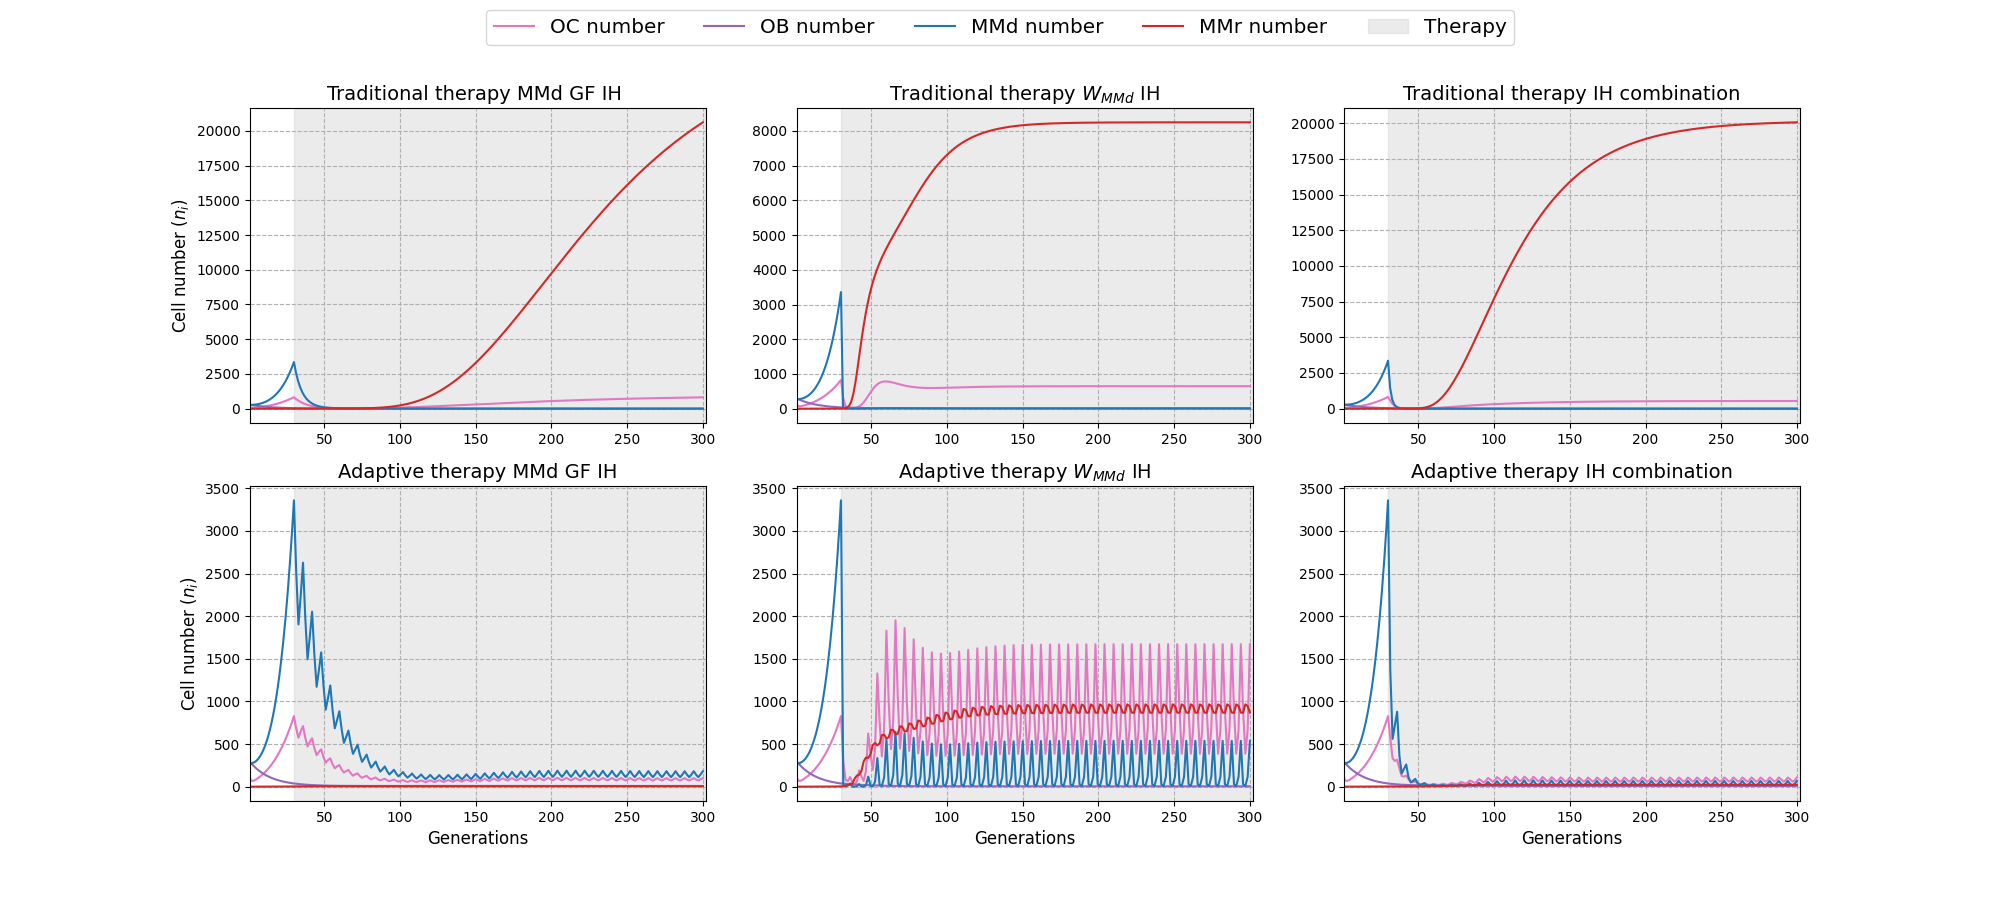
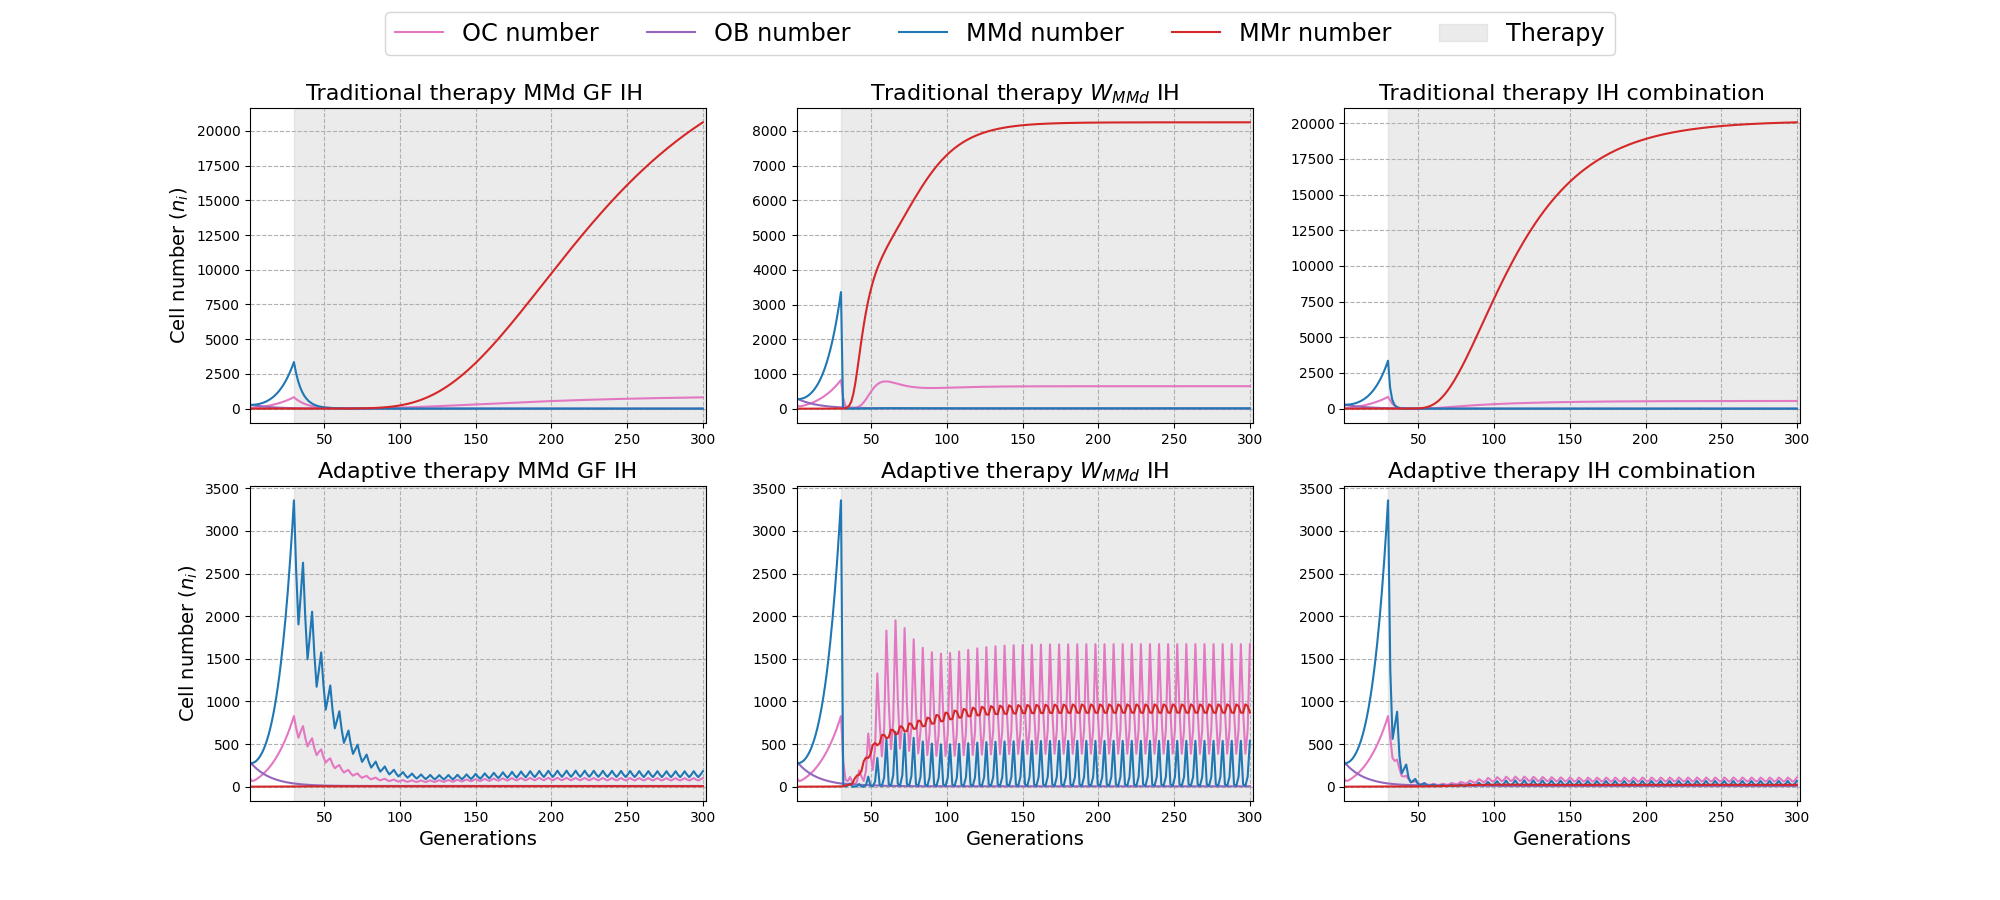
comments check

diff --git a/code/MM_model_nr_IH_inf.py b/code/MM_model_nr_IH_inf.py
@@ -53,7 +53,7 @@ def main():
     # are low (< 500), high: the MMr limit values are high (> 500)
     Figure_AT_MMd_MMr_limit(500, 250)
 
-    # """ The optimisation """
+    """ The optimisation """
     # Optimise IH administration duration, holiday duration and strength for
     # MMd GF IH -> WMMd IH -> holiday
     minimise_MM_GF_W_h_IH()
@@ -446,7 +446,7 @@ def dynamics_MMd_MMr_limits(time_IH, time_end, upper_limit_MMd, upper_limit_MMr,
 
     Returns:
     --------
-    df_numbers: Dataframe
+    df_numbers: DataFrame
         The dataframe with the number per cell type over the time
     average_a_duration: Float
         The average administration duration
@@ -576,11 +576,11 @@ def combine_dataframes(df_1, df_2):
     # Check if the dataframes are empty
     if df_1.empty or df_2.empty:
 
-        # return the dataframe that is not empty
+        # Return the dataframe that is not empty
         combined_df = df_1 if not df_1.empty else df_2
 
     else:
-        # delete the NA columns
+        # Delete the NA columns
         df_1 = df_1.dropna(axis=1, how='all')
         df_2 = df_2.dropna(axis=1, how='all')
 
@@ -662,7 +662,7 @@ def make_part_df(dataframe, start_time, time, growth_rates, decay_rates, matrix,
     -----------
     dataframe: DataFrame
         The dataframe to which the extra data should be added.
-    start_time:
+    start_time: Int
         The last generation in the current dataframe
     time: Int
         The time the cell number should be calculated
@@ -747,7 +747,7 @@ def switch_dataframe(time_IH, n_switches, t_steps_drug, t_steps_no_drug, nOC,
 
     Returns:
     --------
-    df_total_switch: Dataframe
+    df_total_switch: DataFrame
         Dataframe with the nOC, nOB, nMMd and nMMr values over time.
     """
     # Set initial values
@@ -839,7 +839,7 @@ def switch_dataframe_GF_W_h(n_rounds, t_steps_GF_IH, t_steps_WMMd_IH,
 
     Returns:
     --------
-    df_total_switch: Dataframe
+    df_total_switch: DataFrame
         Dataframe with the nOC, nOB, nMMd and nMMr values over time.
     """
     # Set initial values
@@ -941,7 +941,7 @@ def switch_dataframe_W_GF_h(n_rounds, t_steps_GF_IH, t_steps_WMMd_IH,
 
     Returns:
     --------
-    df_total_switch: Dataframe
+    df_total_switch: DataFrame
         Dataframe with the nOC, nOB, nMMd and nMMr values over time.
     """
     # Set initial values
@@ -1050,7 +1050,7 @@ def switch_dataframe_W_comb_GF_h(n_rounds, t_steps_GF_IH, t_steps_WMMd_IH,
 
     Returns:
     --------
-    df_total_switch: Dataframe
+    df_total_switch: DataFrame
         Dataframe with the nOC, nOB, nMMd and nMMr values over time.
     """
     # Set initial values
@@ -1169,7 +1169,7 @@ def switch_dataframe_GF_comb_W_h(n_rounds, t_steps_GF_IH, t_steps_WMMd_IH,
 
     Returns:
     --------
-    df_total_switch: Dataframe
+    df_total_switch: DataFrame
         Dataframe with the nOC, nOB, nMMd and nMMr values over time.
     """
     # Set initial values
@@ -1279,7 +1279,7 @@ def minimal_tumour_nr_t_3_situations(t_steps_IH_strength, function_order, nOC,
 
     Returns:
     --------
-    average_MM_number: float
+    average_MM_number: Float
         The average total MM number in the last period.
     """
     # Unpack the values that should be optimised
@@ -1421,7 +1421,7 @@ def minimal_tumour_nr_t_4_situations_IH(t_steps_IH_strength, function_order,
 
     Returns:
     --------
-    average_MM_number: float
+    average_MM_number: Float
         The average (weighted) MM number in the last period.
     """
     # Unpack the values that should be optimised
@@ -1597,7 +1597,7 @@ def x_y_z_axis_values_3d_plot(dataframe, name):
 
     Parameters:
     -----------
-    Dataframe: dataFrame
+    Dataframe: DataFrame
         The dataframe with the generated data
     name: String
         The name of the administered IH(s)
@@ -1685,7 +1685,7 @@ def minimal_tumour_numb_t_steps(t_steps_drug, t_steps_no_drug, nOC, nOB, nMMd,
 
     Returns:
     --------
-    average_MM_number: float
+    average_MM_number: Float
         The average total MM number in the last period.
 
     """
@@ -1829,8 +1829,9 @@ def Figure_continuous_MTD_vs_AT_realistic(n_switches, t_steps_drug):
     axs[0, 0].axvspan(xmin = 30, xmax = 302, color = 'lightgray', alpha = 0.45)
     axs[0, 0].set_xlim(1, 302)
     axs[0, 0].set_xlabel(' ')
-    axs[0, 0].set_ylabel(r'Cell number ($n_{i}$)', fontsize=12)
-    axs[0, 0].set_title(f"Traditional therapy MMd GF IH ", fontsize=14)
+    axs[0, 0].set_ylabel(r'Cell number ($n_{i}$)', fontsize=14)
+    axs[0, 0].set_title(f"Traditional therapy MMd GF IH ", fontsize=16)
+    axs[0, 0].set_yticks([0, 2500, 5000, 7500, 10000, 12500, 15000, 17500, 20000])
     axs[0, 0].grid(True, linestyle='--')
 
     # Plot the data without drug holidays in the second plot
@@ -1841,7 +1842,7 @@ def Figure_continuous_MTD_vs_AT_realistic(n_switches, t_steps_drug):
     axs[0, 1].set_xlim(1, 302)
     axs[0, 1].set_xlabel(' ')
     axs[0, 1].set_ylabel(' ')
-    axs[0, 1].set_title(r"Traditional therapy $W_{MMd}$ IH", fontsize=14)
+    axs[0, 1].set_title(r"Traditional therapy $W_{MMd}$ IH", fontsize=16)
     axs[0, 1].grid(True, linestyle='--')
     axs[0, 1].set_yticks([0, 1000, 2000, 3000, 4000, 5000, 6000, 7000, 8000])
 
@@ -1853,7 +1854,8 @@ def Figure_continuous_MTD_vs_AT_realistic(n_switches, t_steps_drug):
     axs[0, 2].set_xlim(1, 302)
     axs[0, 2].set_xlabel(' ')
     axs[0, 2].set_ylabel(' ')
-    axs[0, 2].set_title(r"Traditional therapy IH combination", fontsize=14)
+    axs[0, 2].set_title(r"Traditional therapy IH combination", fontsize=16)
+    axs[0, 2].set_yticks([0, 2500, 5000, 7500, 10000, 12500, 15000, 17500, 20000])
     axs[0, 2].grid(True, linestyle='--')
 
     # Plot the data with drug holidays in the fourth plot
@@ -1862,9 +1864,9 @@ def Figure_continuous_MTD_vs_AT_realistic(n_switches, t_steps_drug):
                                                     legend=False, ax=axs[1, 0])
     axs[1, 0].axvspan(xmin = 30, xmax = 302, color = 'lightgray', alpha = 0.45)
     axs[1, 0].set_xlim(1, 302)
-    axs[1, 0].set_xlabel('Generations', fontsize=12)
-    axs[1, 0].set_ylabel(r'Cell number ($n_{i}$)', fontsize=12)
-    axs[1, 0].set_title(f"Adaptive therapy MMd GF IH", fontsize=14)
+    axs[1, 0].set_xlabel('Generations', fontsize=14)
+    axs[1, 0].set_ylabel(r'Cell number ($n_{i}$)', fontsize=14)
+    axs[1, 0].set_title(f"Adaptive therapy MMd GF IH", fontsize=16)
     axs[1, 0].grid(True, linestyle='--')
     plt.grid(True)
 
@@ -1874,9 +1876,9 @@ def Figure_continuous_MTD_vs_AT_realistic(n_switches, t_steps_drug):
                                                     legend=False, ax=axs[1, 1])
     axs[1, 1].axvspan(xmin = 30, xmax = 302, color = 'lightgray', alpha = 0.45)
     axs[1, 1].set_xlim(1, 302)
-    axs[1, 1].set_xlabel('Generations', fontsize=12)
+    axs[1, 1].set_xlabel('Generations', fontsize=14)
     axs[1, 1].set_ylabel(' ')
-    axs[1, 1].set_title(r"Adaptive therapy $W_{MMd}$ IH", fontsize=14)
+    axs[1, 1].set_title(r"Adaptive therapy $W_{MMd}$ IH", fontsize=16)
     axs[1, 1].grid(True, linestyle='--')
 
     # Plot the data with drug holidays in the sixth plot
@@ -1885,16 +1887,16 @@ def Figure_continuous_MTD_vs_AT_realistic(n_switches, t_steps_drug):
                                                     legend=False, ax=axs[1, 2])
     axs[1, 2].axvspan(xmin = 30, xmax = 302, color = 'lightgray', alpha = 0.45)
     axs[1, 2].set_xlim(1, 302)
-    axs[1, 2].set_xlabel('Generations', fontsize=12)
+    axs[1, 2].set_xlabel('Generations', fontsize=14)
     axs[1, 2].set_ylabel(' ')
-    axs[1, 2].set_title(r"Adaptive therapy IH combination", fontsize=14)
+    axs[1, 2].set_title(r"Adaptive therapy IH combination", fontsize=16)
     axs[1, 2].grid(True, linestyle='--')
 
     # Create a single legend outside of all plots
     legend_labels = ['OC number', 'OB number', 'MMd number', 'MMr number',
                                                                     'Therapy']
     fig.legend(labels = legend_labels, loc='upper center', ncol=5,
-                                                            fontsize='x-large')
+                                                            fontsize='xx-large')
     save_Figure(plt, 'line_plot_cell_nr_IH_inf_AT_MTD_r',
                                  r'..\visualisation\results_model_nr_IH_inf')
     plt.show()
@@ -2444,7 +2446,7 @@ def minimise_MM_W_GF_h_changing_W_IH(growth_rates, growth_rates_IH, decay_rates,
 
     Returns:
     --------
-    df_W_GF_h_change_W: Dataframe
+    df_W_GF_h_change_W: DataFrame
         Dataframe with the MM number for different WMMd IH strengths.
     """
 
@@ -2533,7 +2535,7 @@ def minimise_MM_W_GF_h_changing_GF_IH(growth_rates, growth_rates_IH, decay_rates
 
     Returns:
     --------
-    df_W_GF_h_change_GF: Dataframe
+    df_W_GF_h_change_GF: DataFrame
         Dataframe with the MM number for different MMd GF IH strengths.
     """
 
@@ -2623,7 +2625,7 @@ def minimise_MM_GF_W_h_changing_W_IH(growth_rates, growth_rates_IH, decay_rates,
 
     Returns:
     --------
-    df_GF_W_h_change_W: Dataframe
+    df_GF_W_h_change_W: DataFrame
         Dataframe with the MM number for different WMMd IH strengths.
     """
 
@@ -2710,7 +2712,7 @@ def minimise_MM_GF_W_h_changing_GF_IH(growth_rates, growth_rates_IH, decay_rates
 
     Returns:
     --------
-    df_GF_W_h_change_GF: Dataframe
+    df_GF_W_h_change_GF: DataFrame
         Dataframe with the MM number for different MMd GF IH strengths.
     """
 

diff --git a/code/MM_model_nr_IH_inf_mutation.py b/code/MM_model_nr_IH_inf_mutation.py
@@ -621,11 +621,12 @@ def combine_dataframes(df_1, df_2):
     """
     # Check if the dataframes are empty
     if df_1.empty or df_2.empty:
-        # return the dataframe that is not empty
+
+        # Return the dataframe that is not empty
         combined_df = df_1 if not df_1.empty else df_2
 
     else:
-        # delete the NA columns
+        # Delete the NA columns
         df_1 = df_1.dropna(axis=1, how='all')
         df_2 = df_2.dropna(axis=1, how='all')
 
@@ -708,7 +709,7 @@ def make_part_df(dataframe, start_time, time, growth_rates, decay_rates, matrix,
     -----------
     dataframe: DataFrame
         The dataframe to which the extra data should be added.
-    start_time:
+    start_time: Int
         The last generation in the current dataframe
     time: Int
         The time the cell number should be calculated
@@ -890,7 +891,7 @@ def switch_dataframe_GF_W_h(n_rounds, t_steps_GF_IH, t_steps_WMMd_IH,
 
     Returns:
     --------
-    df_total_switch: Dataframe
+    df_total_switch: DataFrame
         Dataframe with the nOC, nOB, nMMd and nMMr values over time.
     """
     # Set initial values
@@ -993,7 +994,7 @@ def switch_dataframe_W_GF_h(n_rounds, t_steps_GF_IH, t_steps_WMMd_IH,
 
     Returns:
     --------
-    df_total_switch: Dataframe
+    df_total_switch: DataFrame
         Dataframe with the nOC, nOB, nMMd and nMMr values over time.
     """
     # Set initial values
@@ -1102,7 +1103,7 @@ def switch_dataframe_W_comb_GF_h(n_rounds, t_steps_GF_IH, t_steps_WMMd_IH,
 
     Returns:
     --------
-    df_total_switch: Dataframe
+    df_total_switch: DataFrame
         Dataframe with the nOC, nOB, nMMd and nMMr values over time.
     """
     # Set initial values
@@ -1222,7 +1223,7 @@ def switch_dataframe_GF_comb_W_h(n_rounds, t_steps_GF_IH, t_steps_WMMd_IH,
 
     Returns:
     --------
-    df_total_switch: Dataframe
+    df_total_switch: DataFrame
         Dataframe with the nOC, nOB, nMMd and nMMr values over time.
     """
     # Set initial values
@@ -1332,7 +1333,7 @@ def minimal_tumour_nr_t_3_situations_IH(t_steps_IH_strength, function_order,
 
     Returns:
     --------
-    average_MM_number: float
+    average_MM_number: Float
         The average (weighted) MM number in the last period.
     """
     # Unpack the values that should be optimised
@@ -1410,7 +1411,7 @@ def minimal_tumour_nr_t_4_situations_IH(t_steps_IH_strength, function_order,
 
     Returns:
     --------
-    average_MM_number: float
+    average_MM_number: Float
         The average (weighted) MM number in the last period.
     """
     # Unpack the values that should be optimised
@@ -1808,7 +1809,6 @@ def minimise_MM_W_comb_GF_h_IH():
     """Function that determines the best IH administration durations and holiday
     durations when the order is WMMd IH -> IH combination -> MMd GF IH -> holiday
     -> WMMd IH etc.It also determines the best MMd GF IH and WMMd IH strength."""
-
 
     # Set start values
     nOC = 20

diff --git a/code/MM_model_frac_IH_inf.py b/code/MM_model_frac_IH_inf.py
@@ -329,7 +329,7 @@ def frac_to_fitness_values(dataframe_fractions, N, cOC, cOB, cMMd, cMMr, matrix,
 
     Parameters:
     -----------
-    dataframe_fractions: Dataframe
+    dataframe_fractions: DataFrame
         Dataframe with the fractions of the OB, OC MMd and MMr on every
         timepoint.
     N: Int
@@ -349,7 +349,7 @@ def frac_to_fitness_values(dataframe_fractions, N, cOC, cOB, cMMd, cMMr, matrix,
 
     Returns:
     --------
-    dataframe_fitness: Dataframe
+    dataframe_fitness: DataFrame
         A dataframe with the fitness values of the OB, OC, MMd and MMr and
         the average fitness on every time point.
     """
@@ -413,11 +413,11 @@ def combine_dataframes(df_1, df_2):
     """
     # Check if the dataframes are empty
     if df_1.empty or df_2.empty:
-        # return the dataframe that is not empty
+        # Return the dataframe that is not empty
         combined_df = df_1 if not df_1.empty else df_2
 
     else:
-        # delete the NA columns
+        # Delete the NA columns
         df_1 = df_1.dropna(axis=1, how='all')
         df_2 = df_2.dropna(axis=1, how='all')
 
@@ -505,7 +505,7 @@ def switch_dataframe(time_start_drugs, n_switches, t_steps_drug, t_steps_no_drug
 
     Returns:
     --------
-    df_total_switch: Dataframe
+    df_total_switch: DataFrame
         Dataframe with the xOC, xOB, xMMd and xMMr values over time.
     """
     # Set initial values
